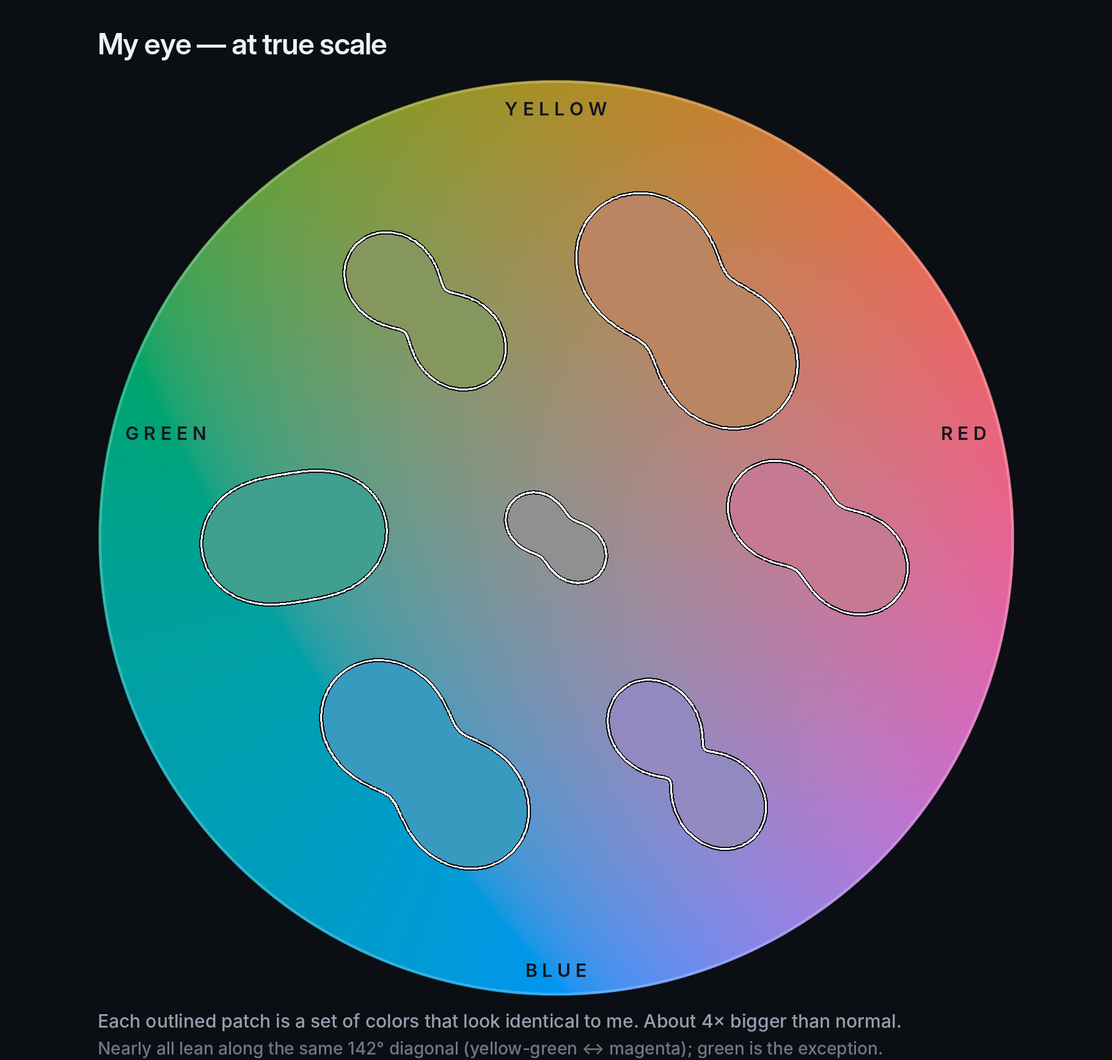
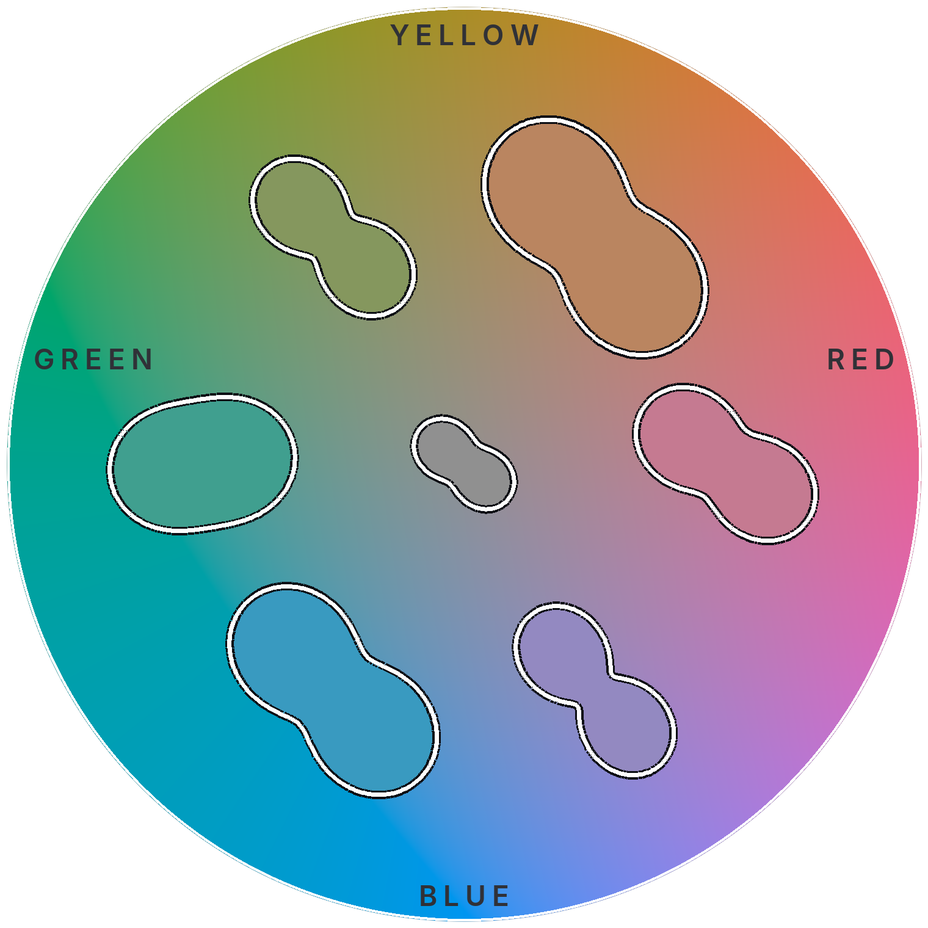
Vision post: critique fixes, captioned figures, math to footnotes, new hook
Claude-Session: https://claude.ai/code/session_014qdEYf1RBX1zcj4MmYeHED

diff --git a/src/styles/global.css b/src/styles/global.css
@@ -103,6 +103,14 @@ hr { border: 0; border-top: 1px solid var(--rule); margin: 2.5rem 0; }
 .prose picture img { background: none; }
 .prose a:has(> img) { display: block; }
 .prose .katex-display { overflow-x: auto; overflow-y: hidden; padding: 0.25rem 0; }
+.prose .katex { font-size: 1em; }  /* KaTeX defaults to 1.21em, which reads oversized next to body text */
+.prose figure { margin: 1.5rem 0; }
+.prose figure img { margin: 0 auto 0.5rem; }
+.prose figcaption { font: 0.85rem/1.45 var(--sans); color: var(--muted); text-align: center; }
+/* side-by-side figures; stack on narrow screens */
+.prose .pair { display: grid; grid-template-columns: repeat(auto-fit, minmax(260px, 1fr)); gap: 1rem; margin: 1.5rem 0; }
+.prose .pair figure { margin: 0; }
+.prose .pair img { background: none; width: 100%; height: auto; }
 .prose table { border-collapse: collapse; width: 100%; font-size: 0.95rem; }
 .prose th, .prose td { border: 1px solid var(--rule); padding: 0.4rem 0.6rem; }
 

diff --git a/src/content/blog/mapping-my-own-color-vision.md b/src/content/blog/mapping-my-own-color-vision.md
@@ -1,6 +1,6 @@
 ---
-title: "Red-Green Colorblind Poser"
-description: "I've failed every colorblind test since I was a kid, but I always knew it wasn't so simple, so recently I built my own test, and created a map of my vision. The results were... eye-opening, : )"
+title: "Not Red-Green: Mapping My Own Color Vision"
+description: "I've failed every colorblind test since I was a kid, but I always knew it wasn't that simple. So I built my own test and mapped my vision. The results were... eye-opening."
 pubDate: 2026-10-13
 tags: [project, color, vision, data]
 draft: true
@@ -9,22 +9,42 @@ coverFit: contain
 demo: /color-threshold-test/
 ---
 
-<!-- TODO: Need an image to show what central vision loss looks like? Maybe show all three somehow?
-Show an image of a keycap that looks good on the designer but bad in real print
-A. Need a visual for HSV
-B. Show an example of the early HSV swatch test 
-C. Alter the 4-box odd man out test for hosting here 
-D. Describe failures in the vision card in whatever detail makes the most sense.
-Ask claude for help fixing the indentation problem after the piecewise function.
-Font size forTex formulas is so big - can it be cut down by default?
+<!-- TITLE OPTIONS (Claude draft, pick one or write your own):
+- Not Red-Green: Mapping My Own Color Vision   (current)
+- Red-Green Colorblind Poser                   (your original)
+- I Failed Every Colorblind Test. I'm Not Colorblind (Exactly).
+- 5,600 Squares Later: What I Actually See
+- My Color Smear
+-->
+
+<!-- TODO (remaining):
+Need an image to show what central vision loss looks like? Maybe show all three somehow?
+C. Alter the 4-box odd man out test for hosting here
+-->
+
+<!-- DRAFT (Claude): new hook. Edit freely. -->
+<figure>
+  <img src="/images/2026/10/vision/ishihara_red_green.png" alt="An Ishihara-style color plate: a circle of colored dots hiding a number" width="255" height="259">
+  <figcaption>What number do you see? I've been asked that question my whole life, and I almost never know.</figcaption>
+</figure>
+
+You've probably seen one of these: a circle of colored dots with a number hidden inside. I've taken this test more times than I can count, starting around age ten, and I almost always fail it. The conclusion everyone reaches is "red-green colorblind," and that's usually where the conversation ends.
+
+Except it never quite fit. This fall I finally decided to find out what's actually going on, and it turns out I've been a red-green colorblind poser my whole life. I fail the test, but not for the reason everyone assumes.
+<!-- END DRAFT -->
+
+<!-- Optional second plate, if you want it somewhere:
+![A blue-yellow test plate](/images/2026/10/vision/ishihara_blue_yellow.png)
 -->
 
 ## Three different vision problems
 
-I have three seperately describable vision problems:  
+I have three separately describable vision problems:
+
 - **Central vision loss**: My central vision is not blurry, it's actually missing entirely. It's replaced with a swirl of colors and patterns. Imagine if someone were holding up a kaleidoscope right in the middle of your vision and rotating it all day, whether you have your eyes open or closed, exactly wherever you happen to be looking. That's what it's like for me. It's most similar to the symptoms of something called Stargardt's disease. I don't have a great visualization for it and it's not the focus of this post, so I'll let the description above do all the lifting on this topic.
-- **Nearsightedness** (standard myopia): This is what most people my age have. It's blurry vision for anything outside of a given distance from my eyes. It's straightforward and it's correctible with presccription lenses, but it confuses people when they see that I'm wearing glasses and still can't see well, so it's worth mentioning here.
+- **Nearsightedness** (standard myopia): This is what most people my age have. It's blurry vision for anything outside of a given distance from my eyes. It's straightforward and it's correctable with prescription lenses, but it confuses people when they see that I'm wearing glasses and still can't see well, so it's worth mentioning here.
 - **Color discrimination**: Lots of colors are difficult for me to tell apart. Yes, sometimes that runs along the red-green spectrum, but sometimes it's blue-yellow too, and sometimes it's different than both, which always seemed weird to me. This post is the result of a deep-dive into exactly why that is.
+
 ## It all started with keycaps
 
 Earlier this year, I started a project to build custom keycaps (more on that in its own post once the set is done). Dye-sublimated keycaps live or die on contrast: a texture or icon that looks fine on screen can vanish once it's printed on the actual plastic. To predict which designs would survive printing, I had to get really intimate with color and design theory - hex, RGB, HSV, ink weight, and ink distribution measures, among others. Eventually, I stumbled onto the well-established concept of luminance[^1], which is a measure of the way the human eye sees brightness. It turns out this was really useful for the keycaps - if the luminance gap between two colors was big enough, then the print would "work" in the sense that the legends and textures on the caps could be easily seen against the background.
@@ -34,81 +54,106 @@ Earlier this year, I started a project to build custom keycaps (more on that in 
   <img src="/images/2026/10/vision/flame_render_vs_print_darktext.png" alt="An example of a keycap that renders just fine on a screen, but fails miserably after printing.">
 </picture>
 
+And this got me thinking - now that I could comfortably discuss hue, saturation, and luminance, and I also had a partner (Claude) who could see things that I couldn't, could I use that to learn a little more about my own vision?
 
-And this got me thinking - now that I could comfortably discuss  hue, saturation, and luminance, and I also had a partner (Claude) who could see things that I couldn't, could I use that to learn a little more about my own vision?
-
-
-[^1]: Luminance formula is $$$$L = 0.2126R + 0.7152G + 0.0722B$$$$ where $$R$$, $$G$$, and $$B$$ are the red, green, and blue channels of that color. Note that red, and especially blue get a huge discount relative to green, which is the strongest color channel for humans. Luminance is different than value (the V from HSV), which is simply the maximum of red, green, or blue and much less reliable for measuring brightness the way we actually see it.
+[^1]: The luminance formula is $L = 0.2126R + 0.7152G + 0.0722B$, where $R$, $G$, and $B$ are the red, green, and blue channels of that color. Note that red, and especially blue, get a huge discount relative to green, which is the strongest color channel for humans. Luminance is different than value (the V from HSV), which is simply the maximum of red, green, or blue and much less reliable for measuring brightness the way we actually see it.
 
 ## Self-Testing
 
-First, a little terminology. I need to define HSV - hue, saturation, and value. These are three numeric values which can easily be calculated from RGB, but they each have a physical interpretation that's a little more natural than RGB channels.
-- **Hue**: This really just means the color family. It's represented by an angle on the color wheel and answers questions like "is this more like a blue or a purple?" Mathematically, it splits the wheel up into three $$120^\circ$$ sections, centered about the primary colors, red, green, and blue. The actual function looks strange because of the piecewise definition, but here it is in case you're interested: Given that $$M = \max(R,G,B)$$, $$m = \min(R,G,B)$$ and $$C = M - m$$:
-$$
-H = 60^\circ \times
-\begin{cases}
-\dfrac{G - B}{C} \bmod 6 & \text{if } M = R \\[6pt]
-\dfrac{B - R}{C} + 2 & \text{if } M = G \\[6pt]
-\dfrac{R - G}{C} + 4 & \text{if } M = B
-\end{cases}
-$$
-The important thing to remember is that hue means color family and gives the "direction" where that familiy lives on the color wheel.
+First, a little terminology. I need to define HSV - hue, saturation, and value. These are three numbers which can easily be calculated from RGB, but they each have a physical interpretation that's a little more natural than RGB channels.
 
-- **Saturation**: This represnets the degree of vividness. Low saturation tends to look more muted and grey, while high saturation looks really vivid. It's measured by a percentage - 0% means right in the middle of the color wheel, while 100% means all the way to the edge of the wheel (and very vivid). Mathematically, it's the difference between the strongest (max) RGB channel and the weakest (min) RGB channel, normalized to the max, or $$\frac{max(R,G,B) - min(R,G,B)}{max(R,G,B)}$$
-- **Value**: This is a measure of brightness. It's also on a scale of 0%-100%. Mathematically, it's just the maximum of R, G, and B or $$max(R,G,B)$$   
+- **Hue**: This really just means the color family. It's an angle on the color wheel and answers questions like "is this more like a blue or a purple?"[^hue]
+- **Saturation**: This represents the degree of vividness. Low saturation looks muted and gray, while high saturation looks really vivid. It's a percentage - 0% is the middle of the color wheel, 100% is the edge.[^sv]
+- **Value**: This is a measure of brightness, also on a scale of 0%-100%.[^sv]
 
+[^hue]: Mathematically, hue splits the wheel into three $120^\circ$ sections, centered on the primary colors red, green, and blue. The function looks strange because it's piecewise. Given $M = \max(R,G,B)$, $m = \min(R,G,B)$ and $C = M - m$:
+
+    $$
+    H = 60^\circ \times
+    \begin{cases}
+    \dfrac{G - B}{C} \bmod 6 & \text{if } M = R \\[6pt]
+    \dfrac{B - R}{C} + 2 & \text{if } M = G \\[6pt]
+    \dfrac{R - G}{C} + 4 & \text{if } M = B
+    \end{cases}
+    $$
+
+[^sv]: Saturation is the difference between the strongest and weakest RGB channels, normalized to the strongest: $S = \frac{\max(R,G,B) - \min(R,G,B)}{\max(R,G,B)}$. Value is just the strongest channel: $V = \max(R,G,B)$.
 
 <picture>
   <source srcset="/images/2026/10/vision/hsv_explainer_dark.png" media="(prefers-color-scheme: dark)">
   <img src="/images/2026/10/vision/hsv_explainer_light.png" alt="HSV color space: a hue/saturation wheel seen from above, and a cone where height is value (brightness)">
 </picture>
 
-With that background, I genreated an early, simple test: show two swatches, change one of hue, saturation or value (HSV), and record whether I could tell they were different. The results were imprecise, but really helpful:
+With that background, I generated an early, simple test: show two swatches, change one of hue, saturation or value (HSV), and record whether I could tell they were different. The results were imprecise, but really helpful:
 
 - **Value (brightness):** I could see about a 5% shift.
 - **Saturation (vividness):** I needed about an 18% shift.
-- **Hue (color family):** still close to a coin flip at a $$32^\circ$$ shift, the largest the test tried.
+- **Hue (color family):** still close to a coin flip at a $32^\circ$ shift, the largest the test tried.
 
-![HSV wheel and value cone](/images/2026/10/vision/hsv_swatch_test_mock.png)
+<figure>
+  <img src="/images/2026/10/vision/hsv_swatch_test_mock.png" alt="The early swatch test: two dark olive squares and Same / Different buttons">
+  <figcaption>Can you tell these apart? They differ by about 6° of hue. I answered "same."</figcaption>
+</figure>
 
-This was a huge revelation. The frustration of 30+ years of clinical uncertainty lifted in an instant. It was like suddenly having the strength to carry a boudler that was previously immovable - almost like magic - and the feeling hit very hard. I now had a way to describe what was "wrong" with me - I spent the next ten minutes in tears of relief.
+This was a huge revelation. The frustration of 30+ years of clinical uncertainty lifted in an instant. It was like suddenly having the strength to carry a boulder that was previously immovable - almost like magic - and the feeling hit very hard. I now had a way to describe what was "wrong" with me - I spent the next ten minutes in tears of relief.
 
 ## New Info, New Idea
 
-And it gave me a new idea - what if I built a "Stephen's vision on a card" statement that would be understanable to anyone at a glance? I could carry it in my wallet and pull it out whenever someone asked. I started by creating some visuals that I thought would help explain my color discrimination, but I discovered two things pretty quickly:
+And it gave me a new idea - what if I built a "Stephen's vision on a card" statement that would be understandable to anyone at a glance? I could carry it in my wallet and pull it out whenever someone asked. I started by creating some visuals that I thought would help explain my color discrimination, but I discovered two things pretty quickly:
+
 1. It was hard to explain to other people in a way that was engaging and understandable.
-2. I still didn't quite understand it well enough myself. For instnace, when I showed an early card to a Reddit design group, someone reasonably said "that's just red-green colorblindness" which was fair because that's what the card showed, but I didn't know how to clarify.
+2. I still didn't quite understand it well enough myself. For instance, when I showed an early card to a Reddit design group, someone reasonably said "that's just red-green colorblindness" which was fair because that's what the card showed, but I didn't know how to clarify.
 
-So, I took the only sane and rational next step: I built a controlled study[^2] and tested myself with 5.6k trials, then recruited as many volunteers as I could (eventually, I ended up with 10) to do the same, although I asked a little less of them - only 540 trials each. 
+<!-- DRAFT (Claude): CIELAB explanation + trial counts. Edit freely. -->
+So, I took the only sane and rational next step: I built a controlled study[^2]. HSV turned out to be the wrong ruler for this. It's convenient for designers, but equal steps in HSV don't *look* equal to the eye, so a "5% shift" means something different depending on where you are on the wheel. Instead, I switched to a color space called CIELAB, which is built so that one unit is roughly the smallest difference a normal eye can see, anywhere. That makes it possible to say things like "my threshold is 4× normal" and have it mean something.
 
-[^2]: **Color space:** CIELAB, which is designed so that a distance of 1 (one ΔE) is roughly one just-noticeable difference for a normal observer. Lightness held fixed so only color change. **Task:** four patches, three identical, pick the odd one out. **Coverage:** seven anchor colors around the wheel plus neutral gray, four directions at each. About 2,000 clean trials over two long sessions.
+All told, I did about 5,600 trials on myself. Not all of them counted: the early HSV runs were exploratory, and one big run had a bug (a 3-second time limit that turned slow answers into wrong ones), so I threw it out. The map below is built on the roughly 2,000 clean trials that were left. Then I recruited 9 volunteers with normal color vision to do a shorter version - only 540 trials each.
+<!-- END DRAFT -->
 
-Here's what the trials look like. It's actually a standard testing mechansim - it starts from an anchor color and then tests how far it can move away from that anchor before you can tell the difference. The test itself shows four color blocks, three of which are always the same, and you have to pick which one is different. If you can't tell, you have to guess. The test assumes and requires that you guess - the math already bakes that in. It also self-adjusts over time so it can really find the boundary precisely.
+[^2]: **Color space:** CIELAB, where a distance of 1 (one ΔE) is roughly one just-noticeable difference for a normal observer. Lightness was held fixed so only color changed. **Task:** four patches, three identical, pick the odd one out. **Coverage:** seven anchor colors around the wheel plus neutral gray, four directions at each.
 
-![Four squares: three identical, one slightly different](/images/2026/10/vision/odd-one-out.svg)
+Here's what the trials look like. It's actually a standard testing mechanism - it starts from an anchor color and then tests how far it can move away from that anchor before you can tell the difference. The test itself shows four color blocks, three of which are always the same, and you have to pick which one is different. If you can't tell, you have to guess. The test assumes and requires that you guess - the math already bakes that in. It also self-adjusts over time so it can really find the boundary precisely.
 
-# What the map shows
+<figure>
+  <img src="/images/2026/10/vision/odd-one-out.svg" alt="Four squares: three identical, one slightly different" width="264" height="264">
+  <figcaption>Which one is different? (It's the top-right square.)</figcaption>
+</figure>
+
+## What the map shows
 
 The short version: **brightness is normal; color is about 4× worse than normal, and it always leans the same way.** Each of these three statements is interesting and carries its own significance.
 
-The word I settled on for the region of colors that look identical to me is a **smear**. Everyone has them, but mine are much, much bigger. The image below shows all seven anchor points, each with a shape drawn around them. I cannot reliably tell the difference between any two colors within that shape. Also, mine all lean in the same direction - see how they point along the yellow-green <-> magenta axis? There is one weird anomoly - my lean in the green region is actually normal (points toward the center of the circle) and doesn't match my other regions, although it is still bigger than everyone else's. I did extra testing here just to make sure and the pattern really holds up - I just have no idea why yet.
+<!-- DRAFT (Claude): brightness paragraph. Edit freely. -->
+Start with brightness, because it explains a lot. My lightness threshold is dead normal - the same as my volunteers, to two decimal places. Most of what we use color for in daily life actually leans on brightness: text on a page, traffic lights (top, middle, bottom), the edge of a step. So for most of my life, nothing seemed obviously wrong. It also explains the keycaps: when I learned to design by luminance, I was unknowingly designing around the one channel that works perfectly for me.
+<!-- END DRAFT -->
 
-<div style="display:flex; gap:1rem; flex-wrap:wrap;">
-  <img src="/images/2026/10/vision/MAP_normal.png" alt="Typical eye: small smears pointing toward gray" style="flex:1 1 280px; min-width:0;">
-  <img src="/images/2026/10/vision/MAP_final.png" alt="My eye: large smears leaning the same diagonal" style="flex:1 1 280px; min-width:0;">
+The word I settled on for the region of colors that look identical to me is a **smear**. Everyone has them, but mine are much, much bigger. The maps below show all seven anchor points, each with a shape drawn around it. Every color inside a shape looks the same - that's why each one is filled with a single flat color. Also, mine all lean in the same direction - see how they point along the yellow-green ↔ magenta axis? There is one weird anomaly - my lean in the green region is actually normal (points toward the center of the circle) and doesn't match my other regions, although it is still bigger than everyone else's. I did extra testing here just to make sure and the pattern really holds up - I just have no idea why yet.
+
+<div class="pair">
+  <figure>
+    <img src="/images/2026/10/vision/MAP_normal.png" alt="Typical eye: small smears pointing toward gray" width="1520" height="1520">
+    <figcaption><strong>Typical eye.</strong> Smears are tiny, and each one points toward or away from the gray center. (Modeled with CIEDE2000, fitted to my 9 volunteers.)</figcaption>
+  </figure>
+  <figure>
+    <img src="/images/2026/10/vision/MAP_final.png" alt="My eye: large smears leaning along the same diagonal" width="1520" height="1520">
+    <figcaption><strong>My eye, same scale.</strong> About 4× bigger, and nearly all lean along the same 142° diagonal (yellow-green ↔ magenta). Green is the exception.</figcaption>
+  </figure>
 </div>
 
-I found the longer version[^3] to be instructive too, but it's a bit of a bear - you can reed it if you're up for it, but it's also ok to skip the numerical analysis - you can still understand the result.
+I found the longer version[^3] to be instructive too, but it's a bit of a bear - you can read it if you're up for it, but it's also OK to skip the numerical analysis - you can still understand the result.
 
-[^3]: **Lightness:** my threshold is 0.70 ΔE. The controls averaged 0.69. Dead normal. **Color overall:** ~3.7× worse than controls, ~4.3× worse than the standard normal-observer mode. **Near gray:** 5–9× worse. Normal eyes are *most* sensitive near gray. Mine aren't, which is exactly why muted colors are my problem. **Direction:** at six of seven anchors, my smear stretches along the same diagonal, about 142° in CIELAB — roughly yellow-green ↔ magenta. The odds of seven directions lining up that tightly by chance are about 1 in 250. **The exception is green**, where my smear is just a uniformly bigger version of a normal one, with no lean. I re-tested that on two screens; it's real, and I don't know why yet. I also used CIEDE2000 — a color-difference formula fitted to thousands of normal-observer judgments — as a "global control." It agrees with my nine controls (r = 0.86) and with my results: about 4× normal.
+[^3]: **Lightness:** my threshold is 0.70 ΔE. The volunteers averaged 0.69. Dead normal. **Color overall:** ~3.7× worse than my volunteers, ~4.3× worse than the standard normal-observer model. **Near gray:** 5–9× worse. Normal eyes are *most* sensitive near gray. Mine aren't, which is exactly why muted colors are my problem. **Direction:** at six of seven anchors, my smear stretches along the same diagonal, about 142° in CIELAB — roughly yellow-green ↔ magenta. The odds of seven directions lining up that tightly by chance are about 1 in 250. **The exception is green**, where my smear is just a uniformly bigger version of a normal one, with no lean. I re-tested that on two screens; it's real, and I don't know why yet. I also used CIEDE2000 — a color-difference formula fitted to thousands of normal-observer judgments — as a "global control." It agrees with my 9 volunteers (r = 0.86) and with my results: about 4× normal.
 
 ## So what kind of colorblindness is it anyway?
 
-If the lean of my smear were caused by a known type of colorblindness, it would line up with that type’s direction, usually within a few degrees. Mine doesn’t. It’s off by 47° from protan (one type of red-green), 37° from deutan (the other type of red-green) and 24° from tritan (blue-yellow). Only tritan is closer than chance, and even that’s a loose fit, so my angle really does appear to be its own unique animal.
+If the lean of my smear were caused by a known type of colorblindness, it would line up with that type's direction, usually within a few degrees. Mine doesn't. It's off by 47° from protan (one type of red-green), 37° from deutan (the other type of red-green) and 24° from tritan (blue-yellow). Only tritan is closer than chance, and even that's a loose fit, so my angle really does appear to be its own unique animal.
 
-![My measured axis vs. the three classic types](/images/2026/10/vision/axis-comparison.png)
+<figure>
+  <img src="/images/2026/10/vision/axis-comparison.png" alt="My measured lean at each anchor compared with the protan, deutan, and tritan confusion directions">
+  <figcaption>White is my lean at each anchor. If I were red-green colorblind, the white line would sit on top of the red or orange one. It almost never does. The one exception is green (far left), where my lean happens to line up with protan, the same anchor where everything else about my smear is different too.</figcaption>
+</figure>
 
-So why do I fail Ishihara? Because my smears are so big that the plates' muted red-green differences fall *inside* them anyway. I fail the red-green test without having a red-green defect not because my confusion *lines* are the same, but because my confusion *zones* are massive!
+So why do I fail Ishihara? Because my smears are so big that the plates' muted red-green differences fall *inside* them anyway. I fail the red-green test without having a red-green defect - not because my confusion *lines* are the same, but because my confusion *zones* are massive!
 
 ## The Vision Card
 
@@ -119,13 +164,15 @@ The wallet card idea went through more than a dozen rounds, incorporating critiq
   <img src="/images/2026/10/vision/card_iterations_light.png" alt="All iterations of the front and back of the card, organized by timeline.">
 </picture>
 
-These versions failed for different reasons. For instance, the cards built on September 5 (first row above) failed on almost all counts - it didn't include any mention of brightness, it was hard to make the connection between the front and the back and it was just plain ugly from a design perspective. By September 16, the ugliness was gone, but the card was still too busy. Eventually, I reintroduced the color wheel, but made it the background of the card, reduced the amount of unnecessary text and highlihgted an important zone to constrast my vision differences at a glance.
+These versions failed for different reasons. For instance, the cards built on September 5 (first row above) failed on almost all counts - they didn't mention brightness at all, it was hard to make the connection between the front and the back, and they were just plain ugly from a design perspective. By September 16, the ugliness was gone, but the card was still too busy. Eventually, I reintroduced the color wheel, but made it the background of the card, reduced the amount of unnecessary text and highlighted an important zone to contrast my vision differences at a glance.
 
-Where it landed:
+Here's where it landed. Before you read on: **how many columns of stripes do you see on the front?**
+
+![Card front](/images/2026/10/vision/card-front.png)
+
 - **Front:** columns of stripes. Most people see stripes in the middle column; I see a smooth block, because those steps are well within normal vision but inside my smear.
 - **Back:** the gray center of color space, magnified, showing my smear vs. a typical one vs. a red-green one, with a stepped brightness strip to show that part is fine.
 
-![Card front](/images/2026/10/vision/card-front.png)
 ![Card back](/images/2026/10/vision/card-back.png)
 
 ## What's next
@@ -136,7 +183,7 @@ The goal isn't a cure. It's a real diagnosis, or at least a documented one. And 
 
 ## Try it yourself
 
-If you're interested in looking at either of the tests I generated or how they work, you can see them here. If you want to see our own "smear" chart, just check the box and if you are ok participating in this experiment (this means I would keep your results as part of the control group for further analysis), then check the "include me in trials" box.
+If you're interested in either of the tests I built, you can try them here. The threshold test draws your own smear chart at the end, and nothing leaves your device unless you choose to send it. If you're willing to join the comparison group, check "Yes, send my results to Stephen" at the end: that sends me your answers, thresholds, and screen and browser details, plus a name or note only if you add one. I'll use them as controls for further analysis.
 
 <p><a class="try-it" href="/color-threshold-test/">Try it: map your own color smears →</a></p>
 <p><a class="try-it" href="/color-swatch-test/">Try it: see my original swatch test →</a></p>
